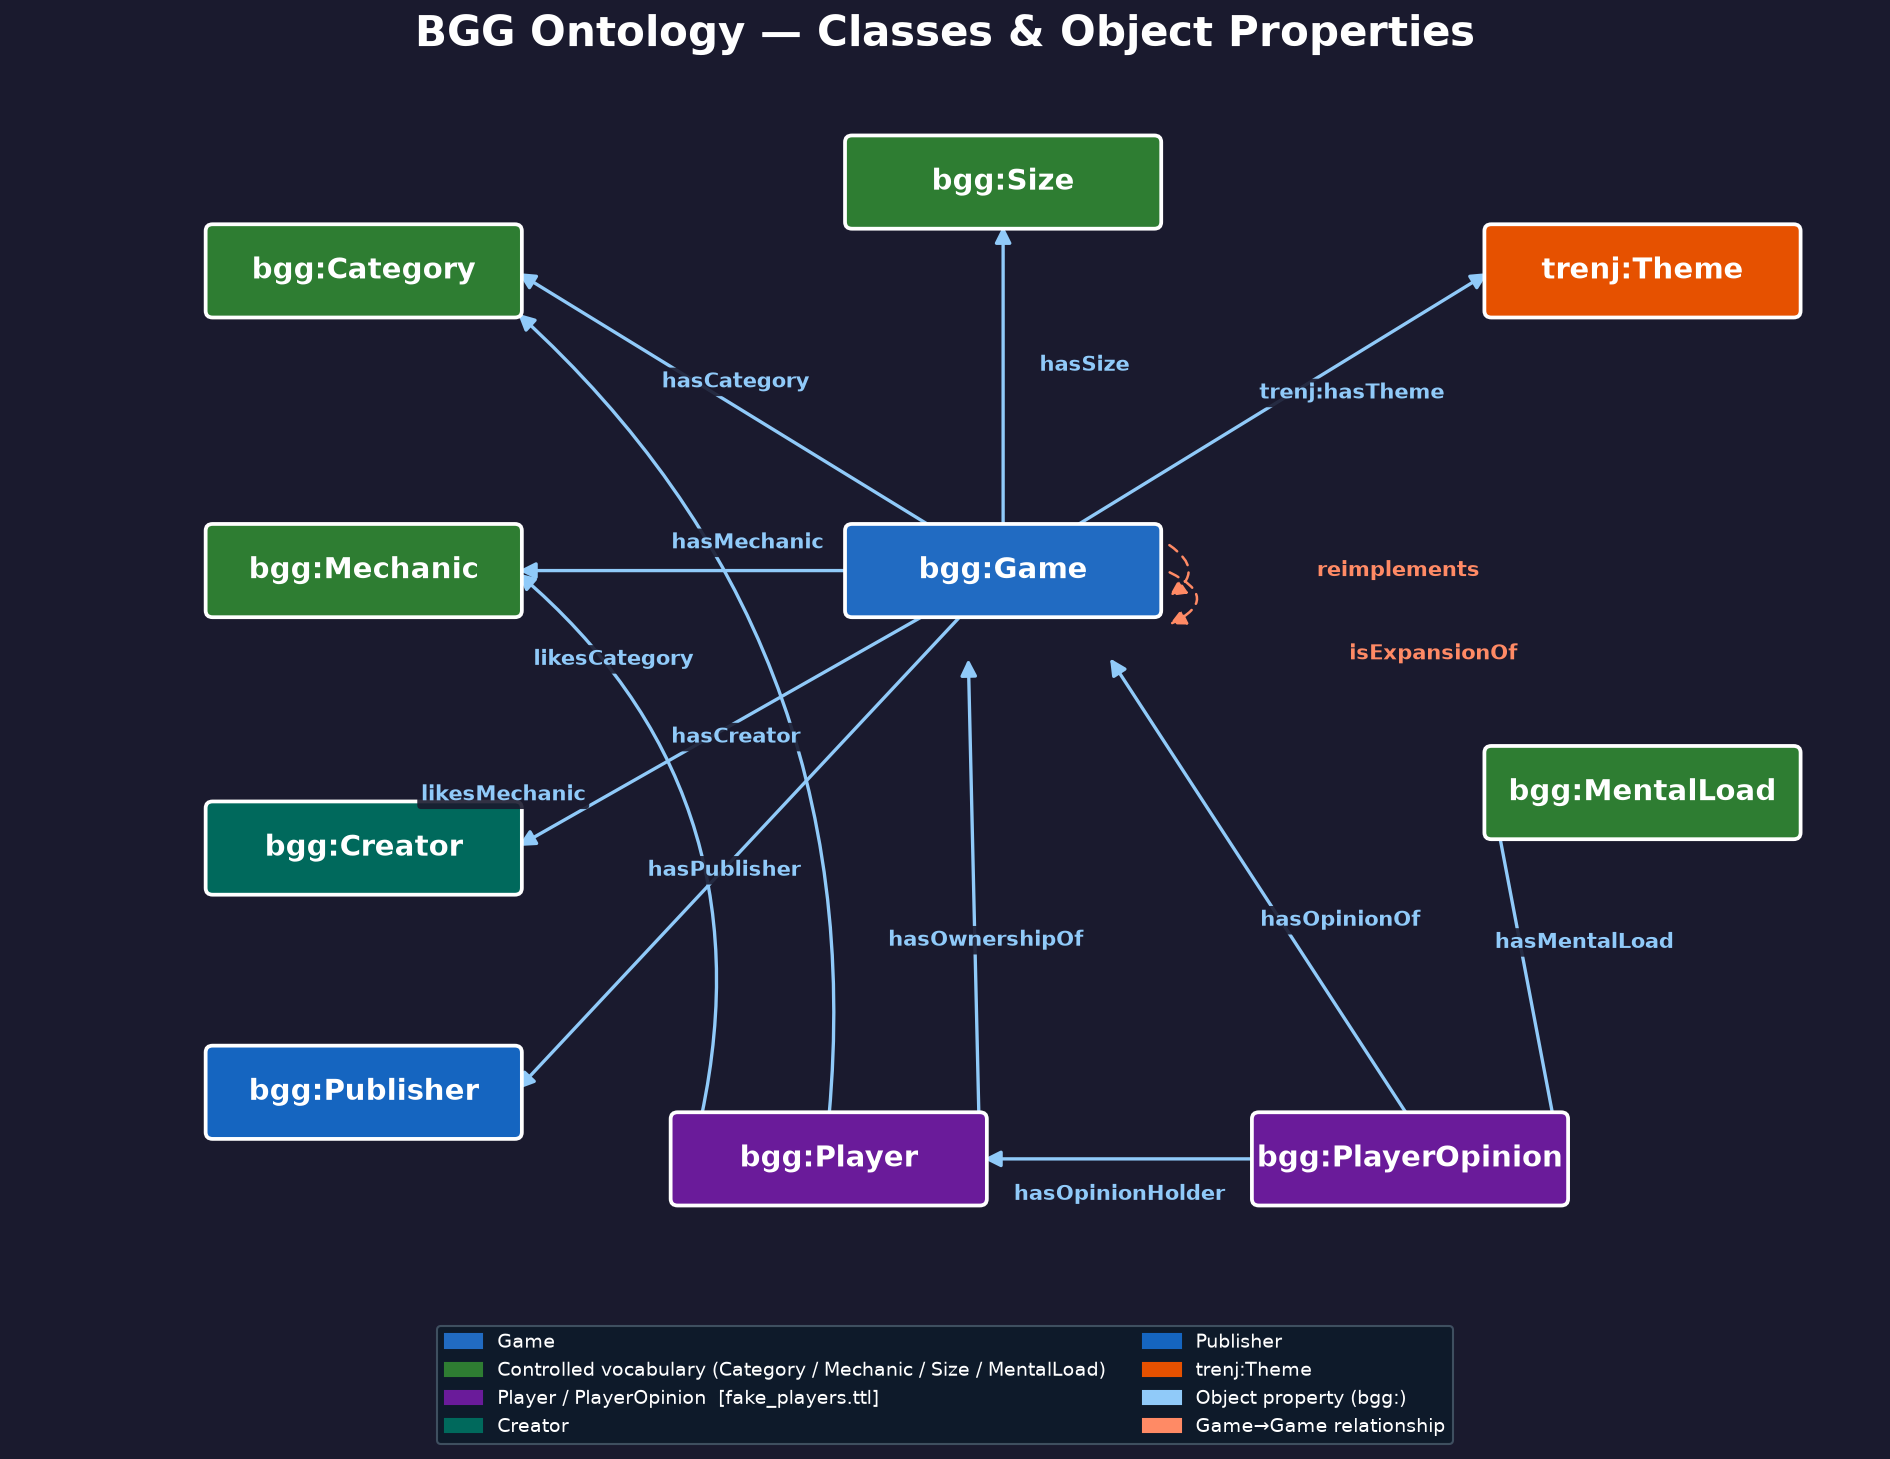
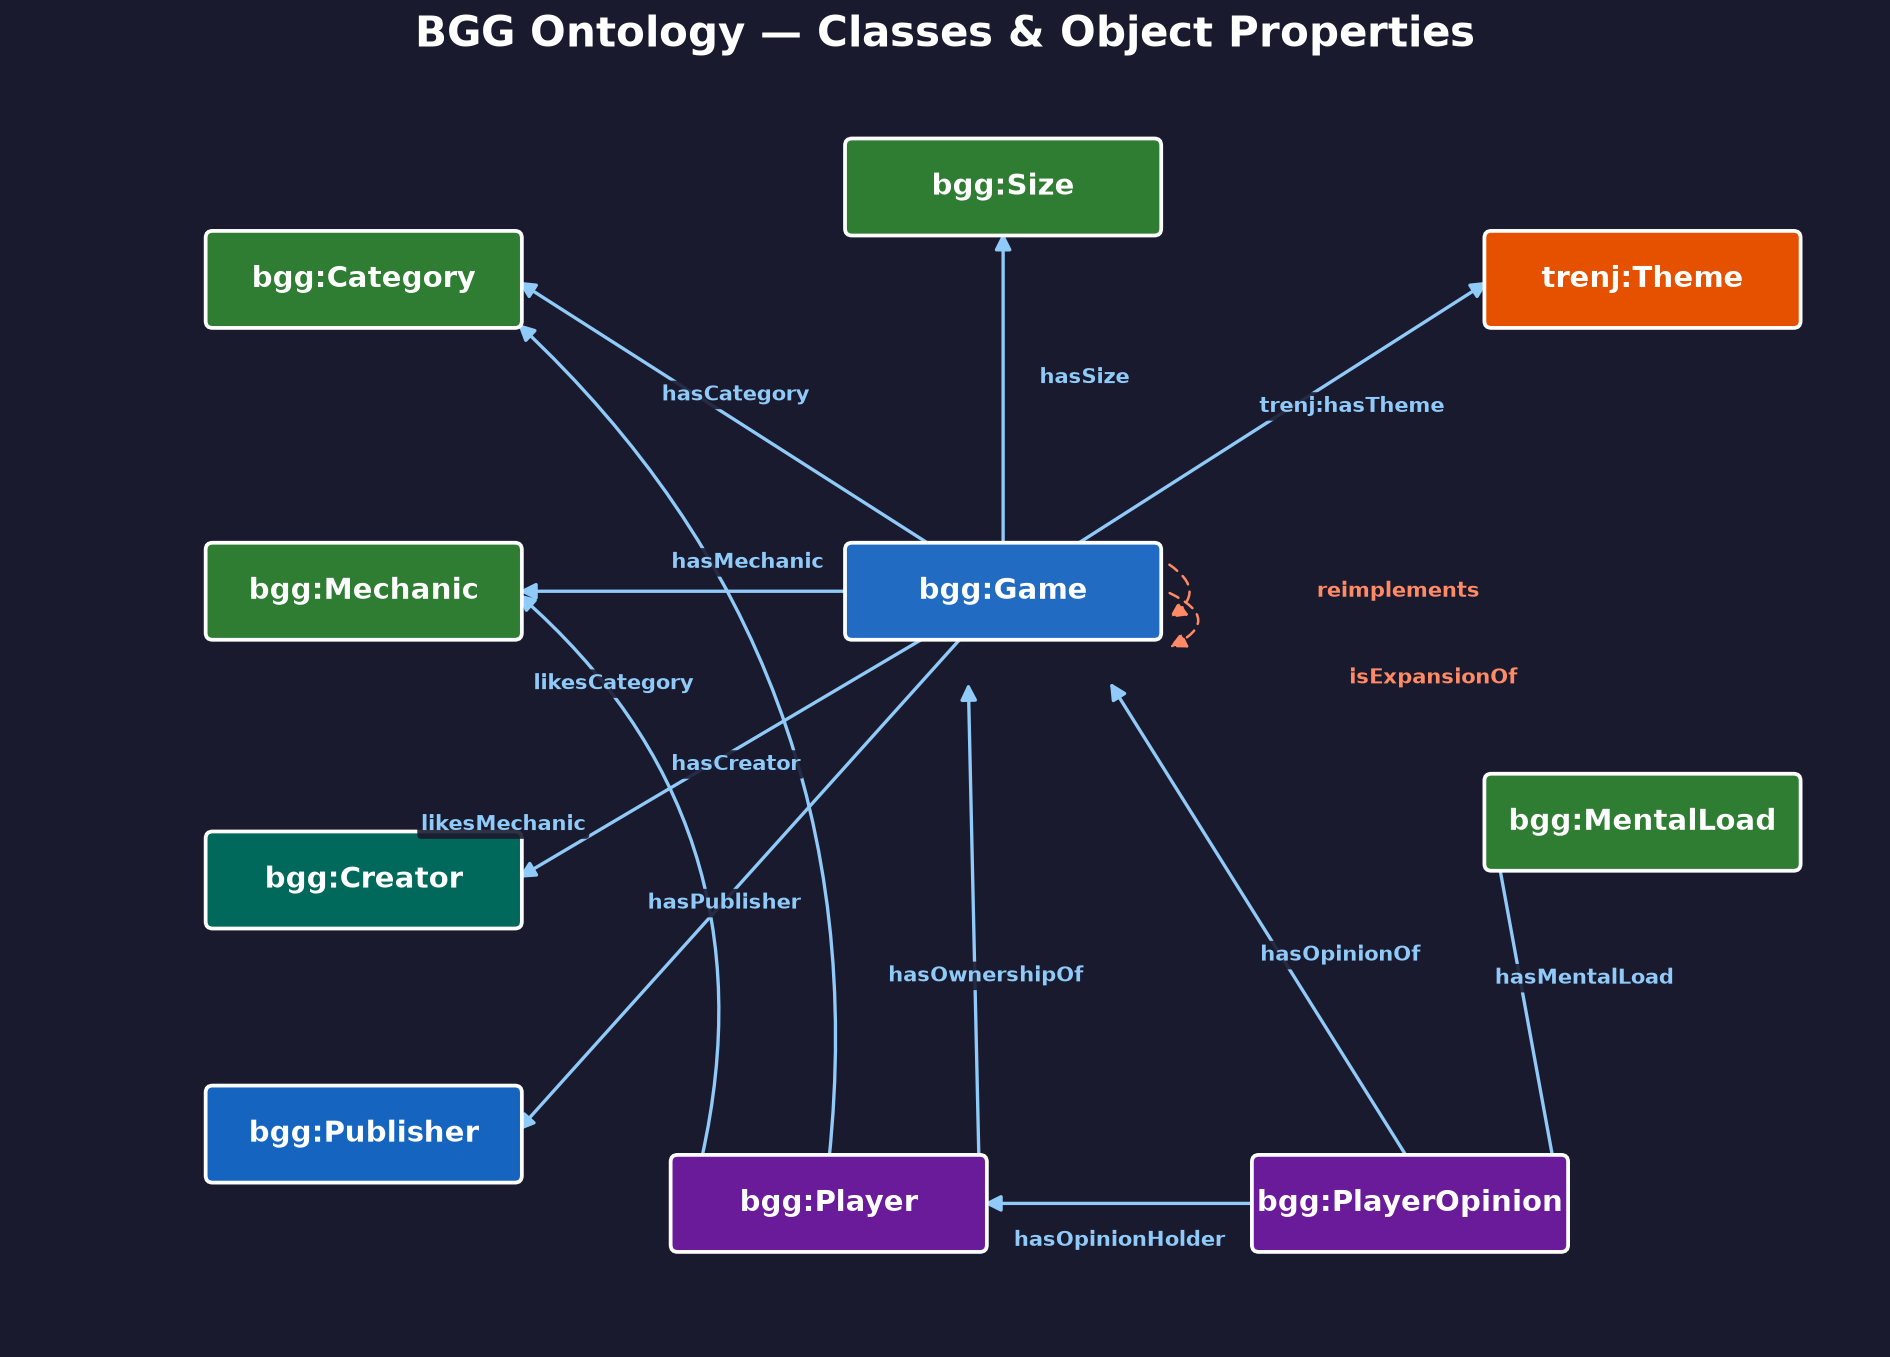
Remove legend from ontology diagram

diff --git a/docs/_viz_ontology.py b/docs/_viz_ontology.py
@@ -2,7 +2,6 @@
 import matplotlib
 matplotlib.use("Agg")
 import matplotlib.pyplot as plt
-import matplotlib.patches as mpatches
 from matplotlib.patches import FancyArrowPatch, FancyBboxPatch
 
 # ── Canvas ────────────────────────────────────────────────────────
@@ -119,26 +118,9 @@ arrow("Game", "Game", "isExpansionOf", color=C_DASH, dashed=True,
       offset_src=(W+0.1,  0.0),  offset_dst=(W+0.1, -0.50),
       label_offset=(2.3,-0.5), rad=-1.1)
 
-# ── Legend ────────────────────────────────────────────────────────
-legend_items = [
-    mpatches.Patch(color=C_GAME,    label="Game"),
-    mpatches.Patch(color=C_VOCAB,   label="Controlled vocabulary (Category / Mechanic / Size / MentalLoad)"),
-    mpatches.Patch(color=C_AGENT,   label="Player / PlayerOpinion  [fake_players.ttl]"),
-    mpatches.Patch(color=C_CREATOR, label="Creator"),
-    mpatches.Patch(color=C_PUBLISH, label="Publisher"),
-    mpatches.Patch(color=C_TRENJ,   label="trenj:Theme"),
-    mpatches.Patch(color=C_EDGE,    label="Object property (bgg:)"),
-    mpatches.Patch(color=C_DASH,    label="Game→Game relationship"),
-]
-ax.legend(handles=legend_items,
-          bbox_to_anchor=(0.5, -0.02), loc="upper center", ncol=2,
-          fontsize=9, framealpha=0.9,
-          facecolor="#0D1B2A", edgecolor="#445566", labelcolor=WHITE)
-
 ax.set_title("BGG Ontology — Classes & Object Properties",
              fontsize=20, fontweight="bold", color=WHITE, pad=12)
 
-plt.subplots_adjust(bottom=0.14)
 plt.savefig("bgg_ontology_diagram.png", dpi=150, bbox_inches="tight",
             facecolor=fig.get_facecolor())
 print("Saved: bgg_ontology_diagram.png")